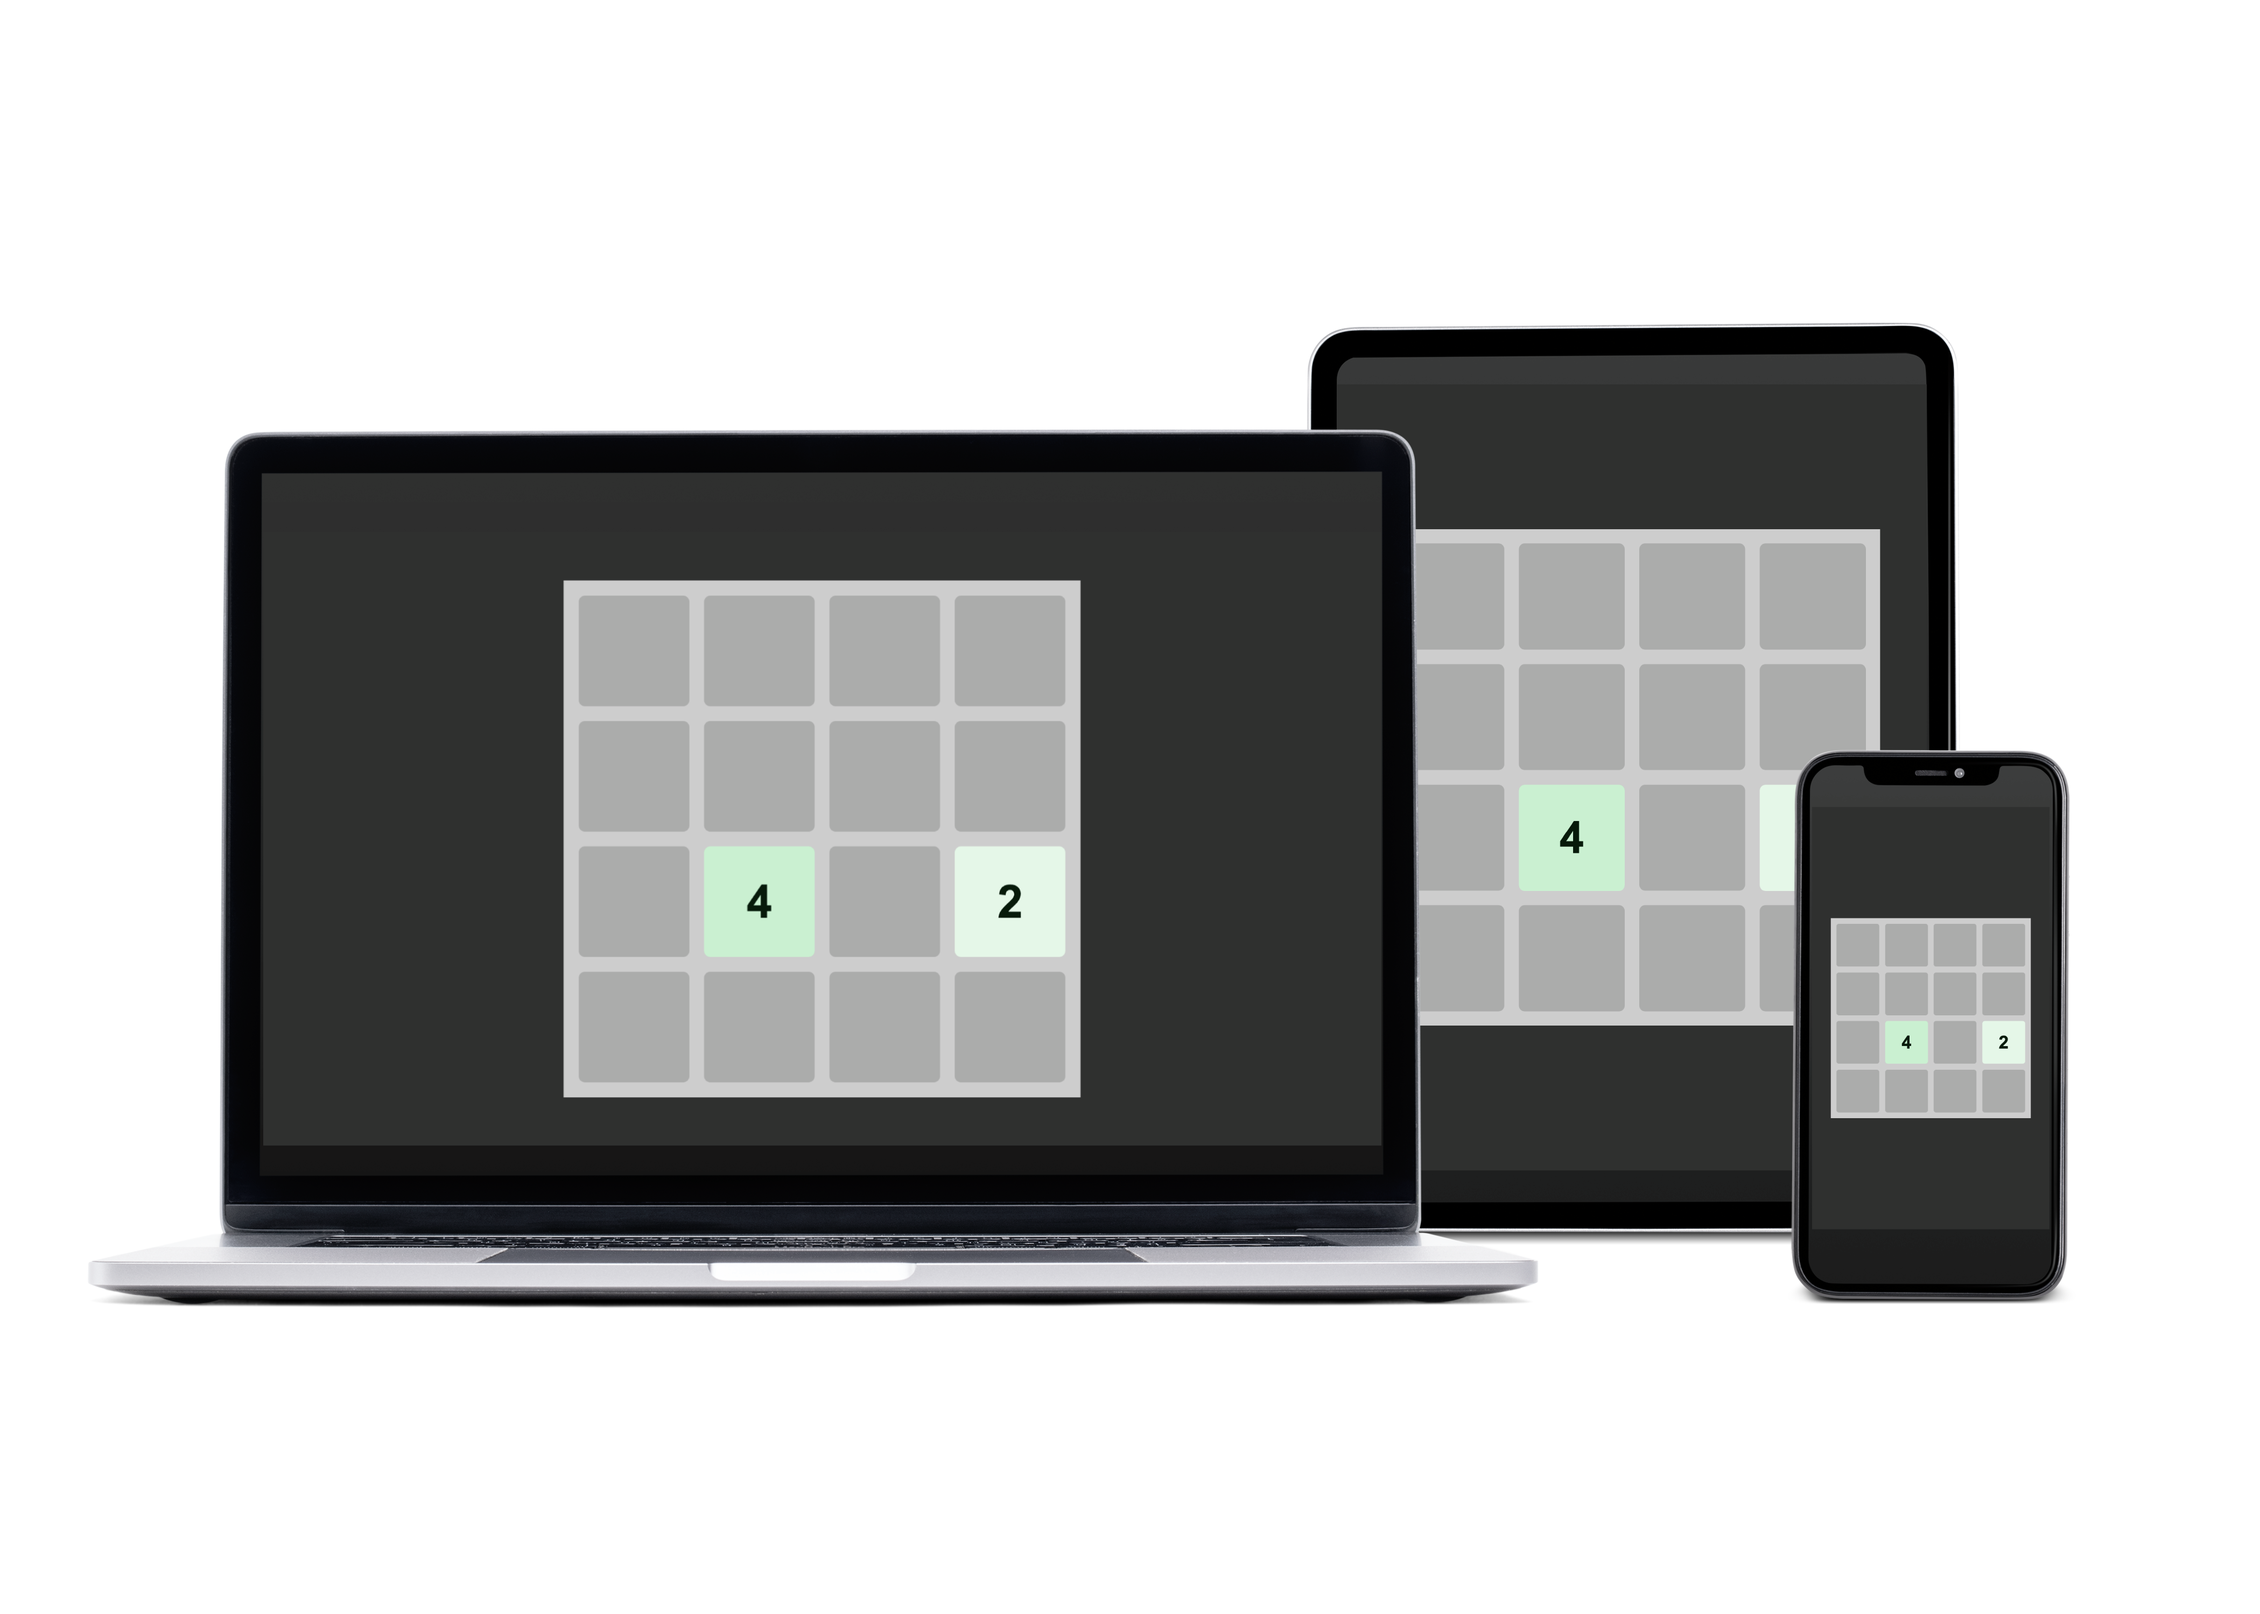
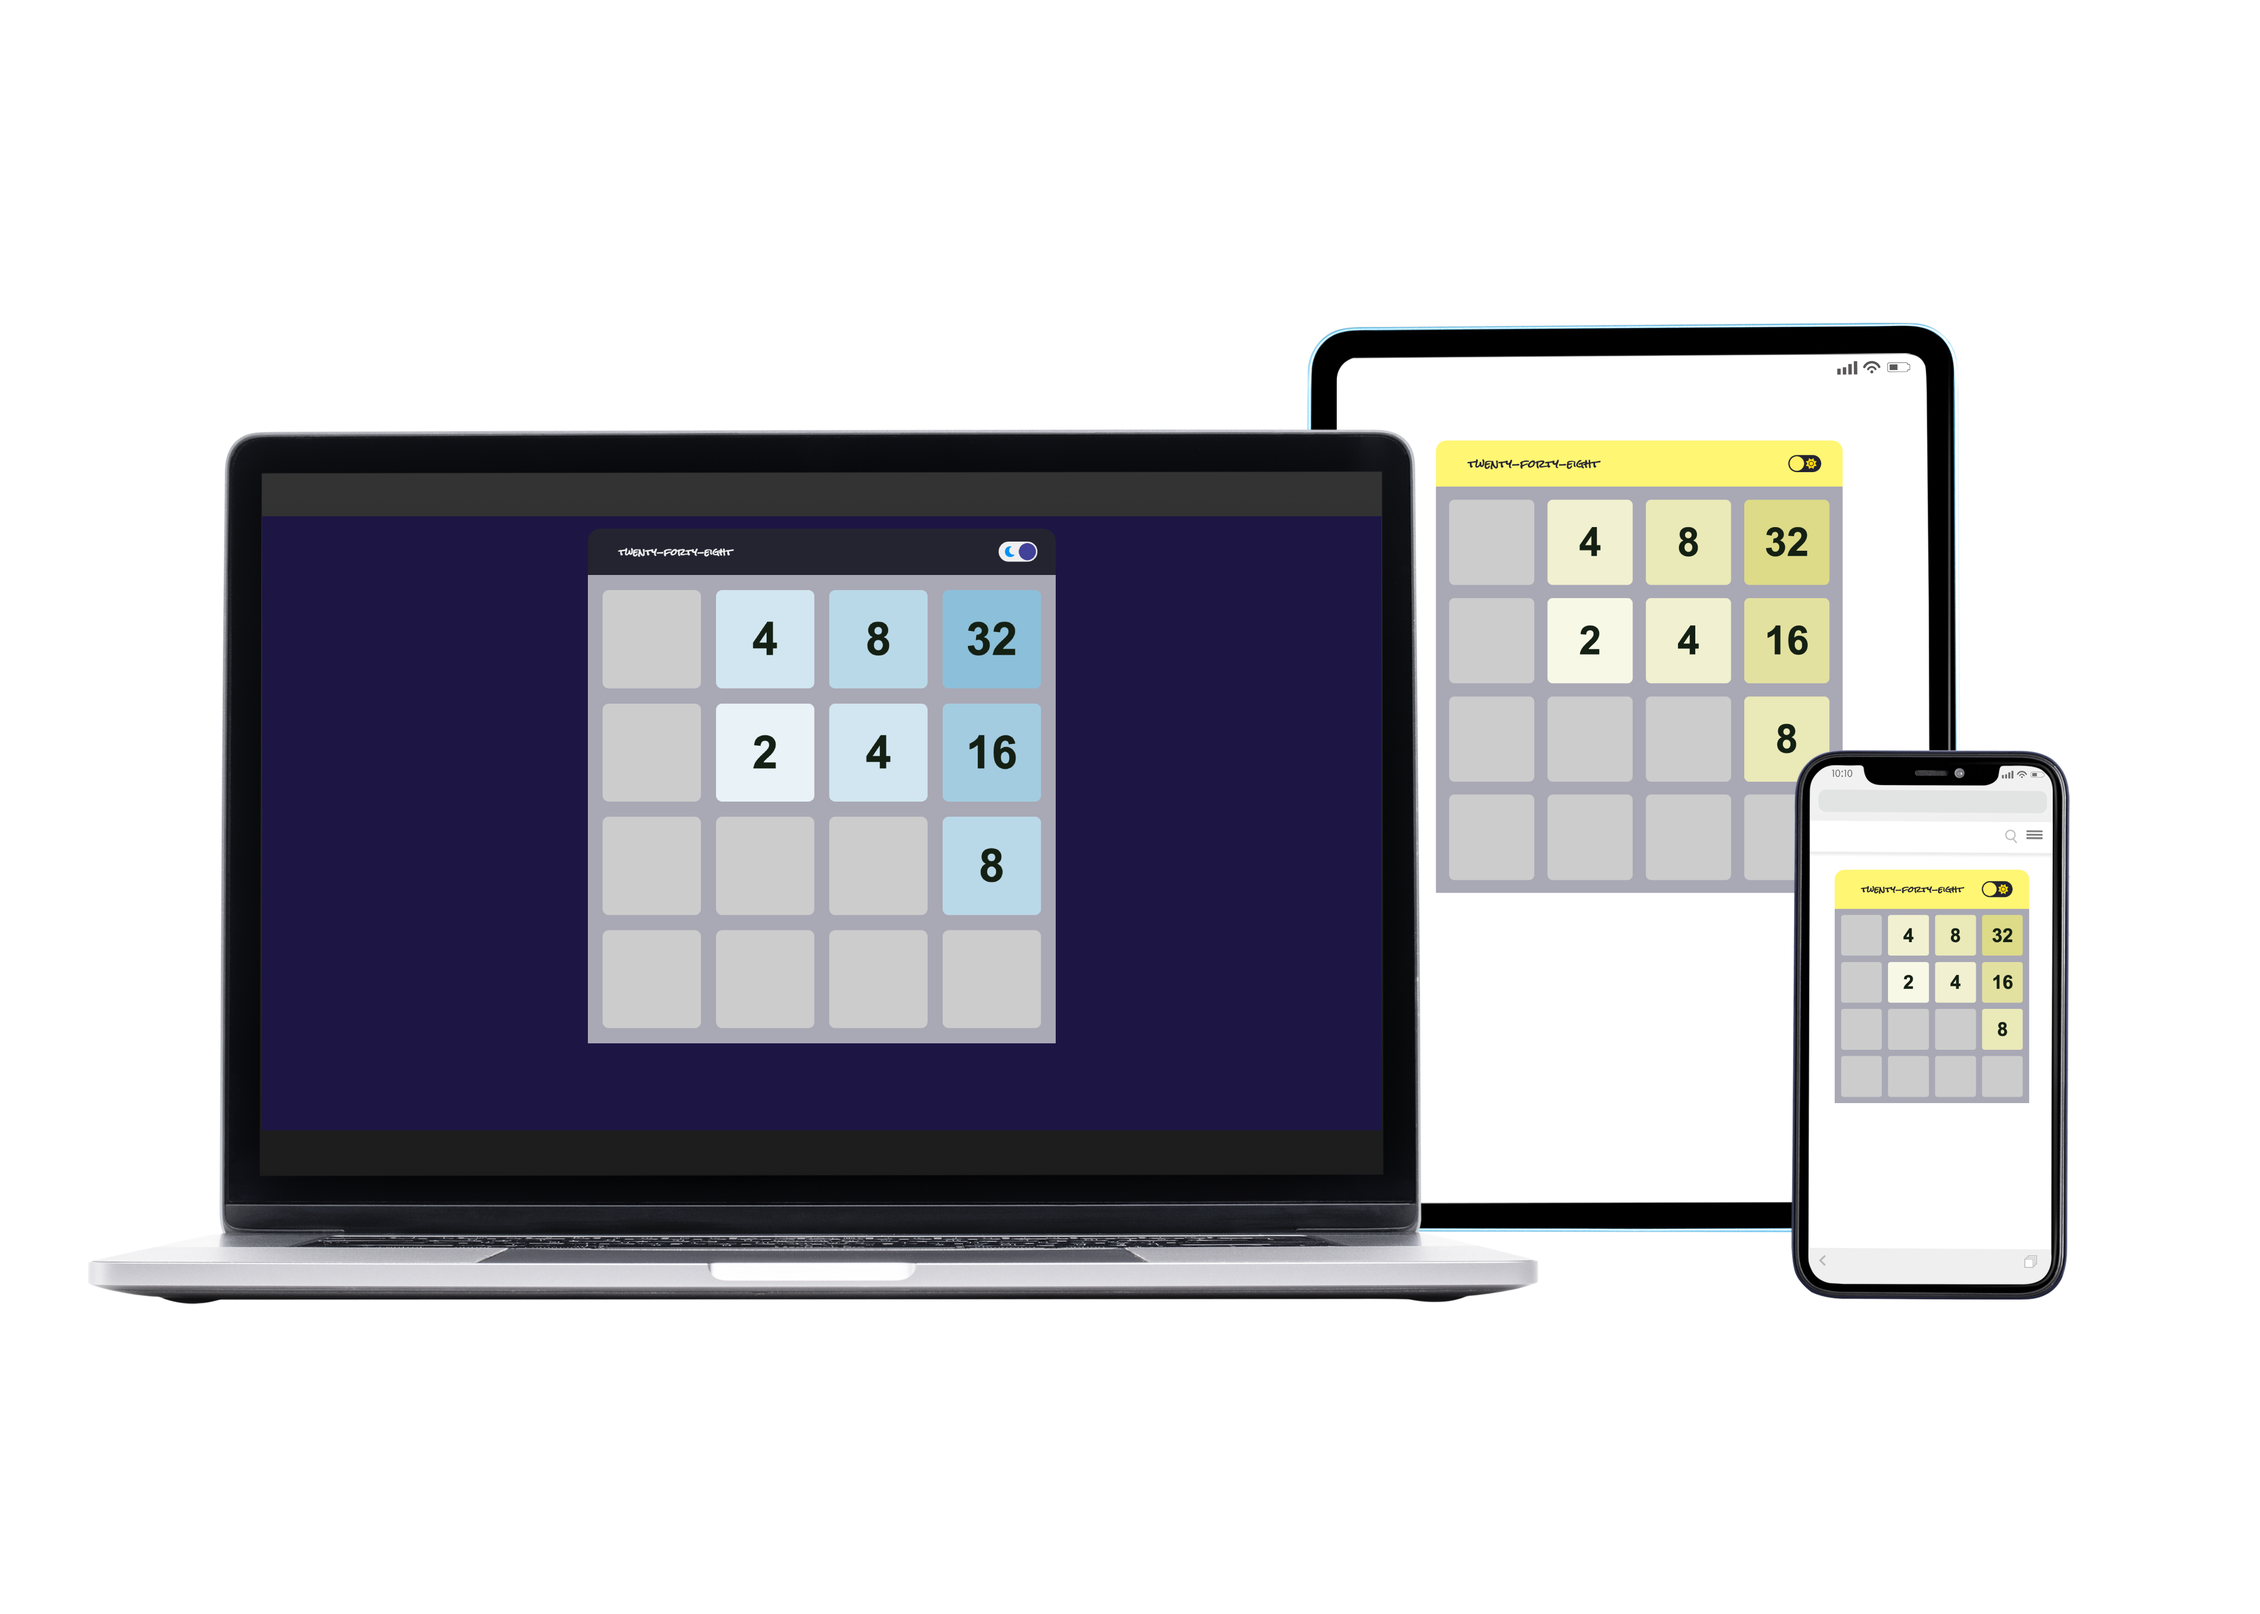
Update styles and mockup

Changed region(s): [[0.0936, 0.2171, 0.9362, 0.8065], [0.1872, 0.8065, 0.4057, 0.8376]]

diff --git a/styles.css b/styles.css
@@ -16,7 +16,7 @@ body.dark {
 }
 
 h1 {
-    font-size: 1.45vh;
+    font-size: 1.65vh;
     font-family: 'Rock Salt', cursive;
     margin: 1rem;
     color: #242431;
